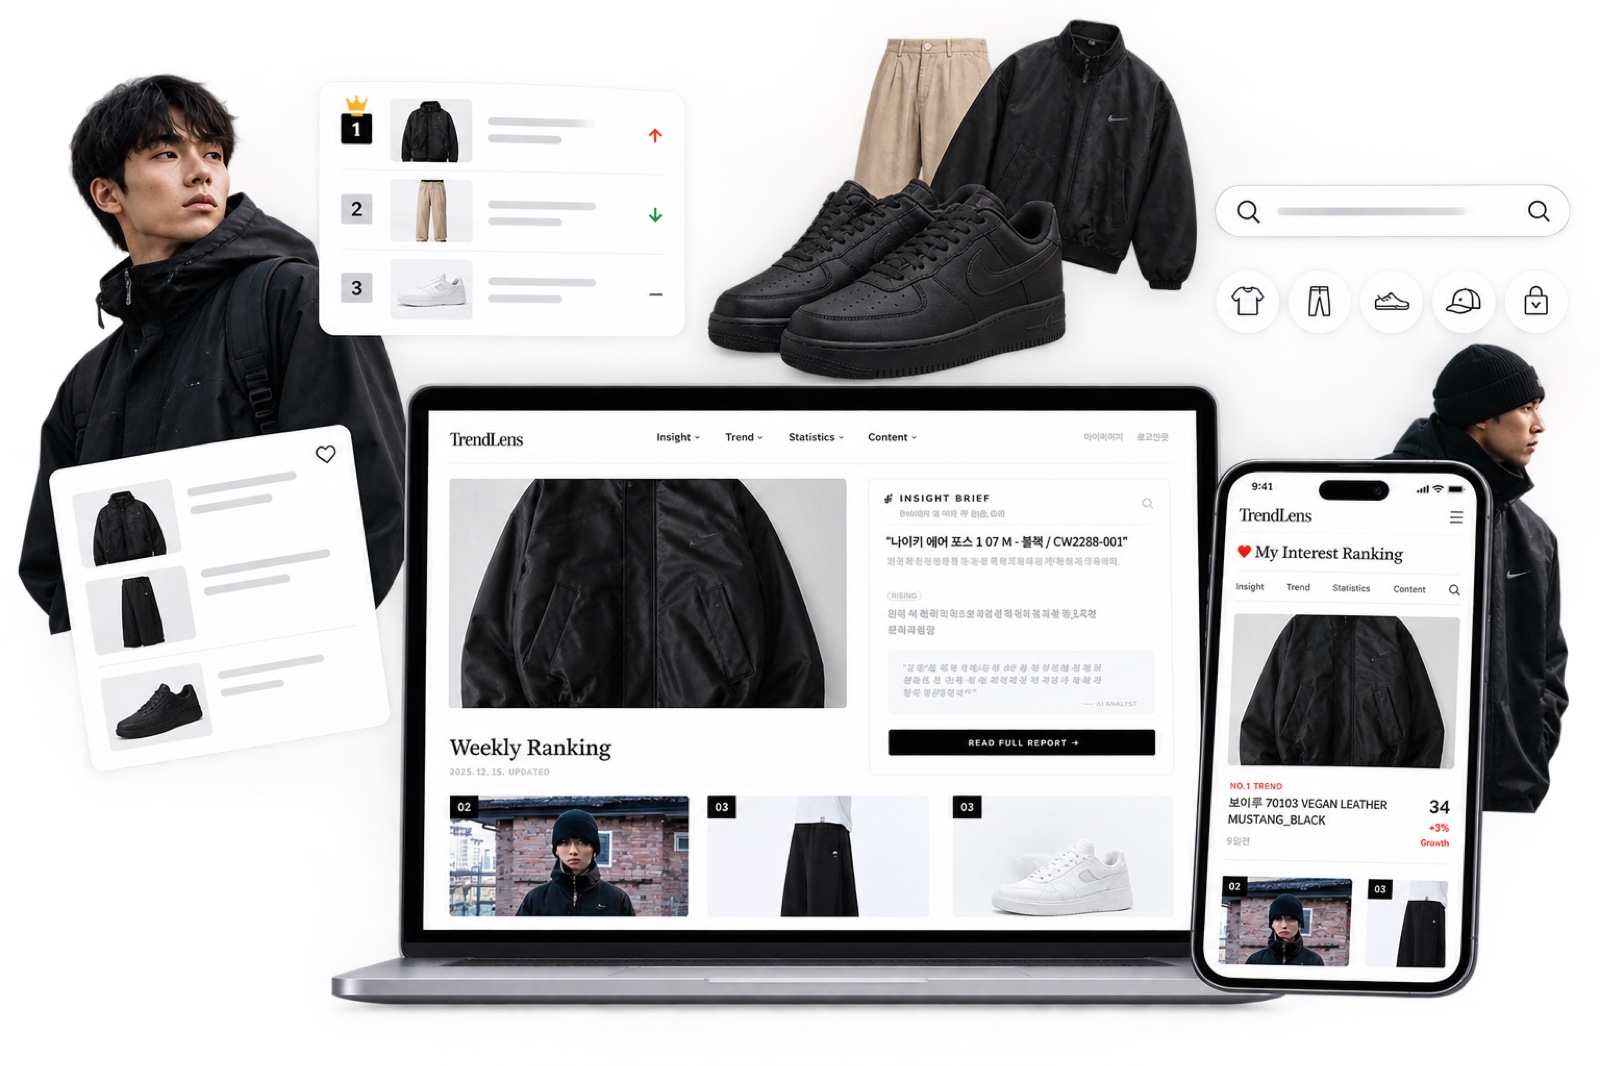
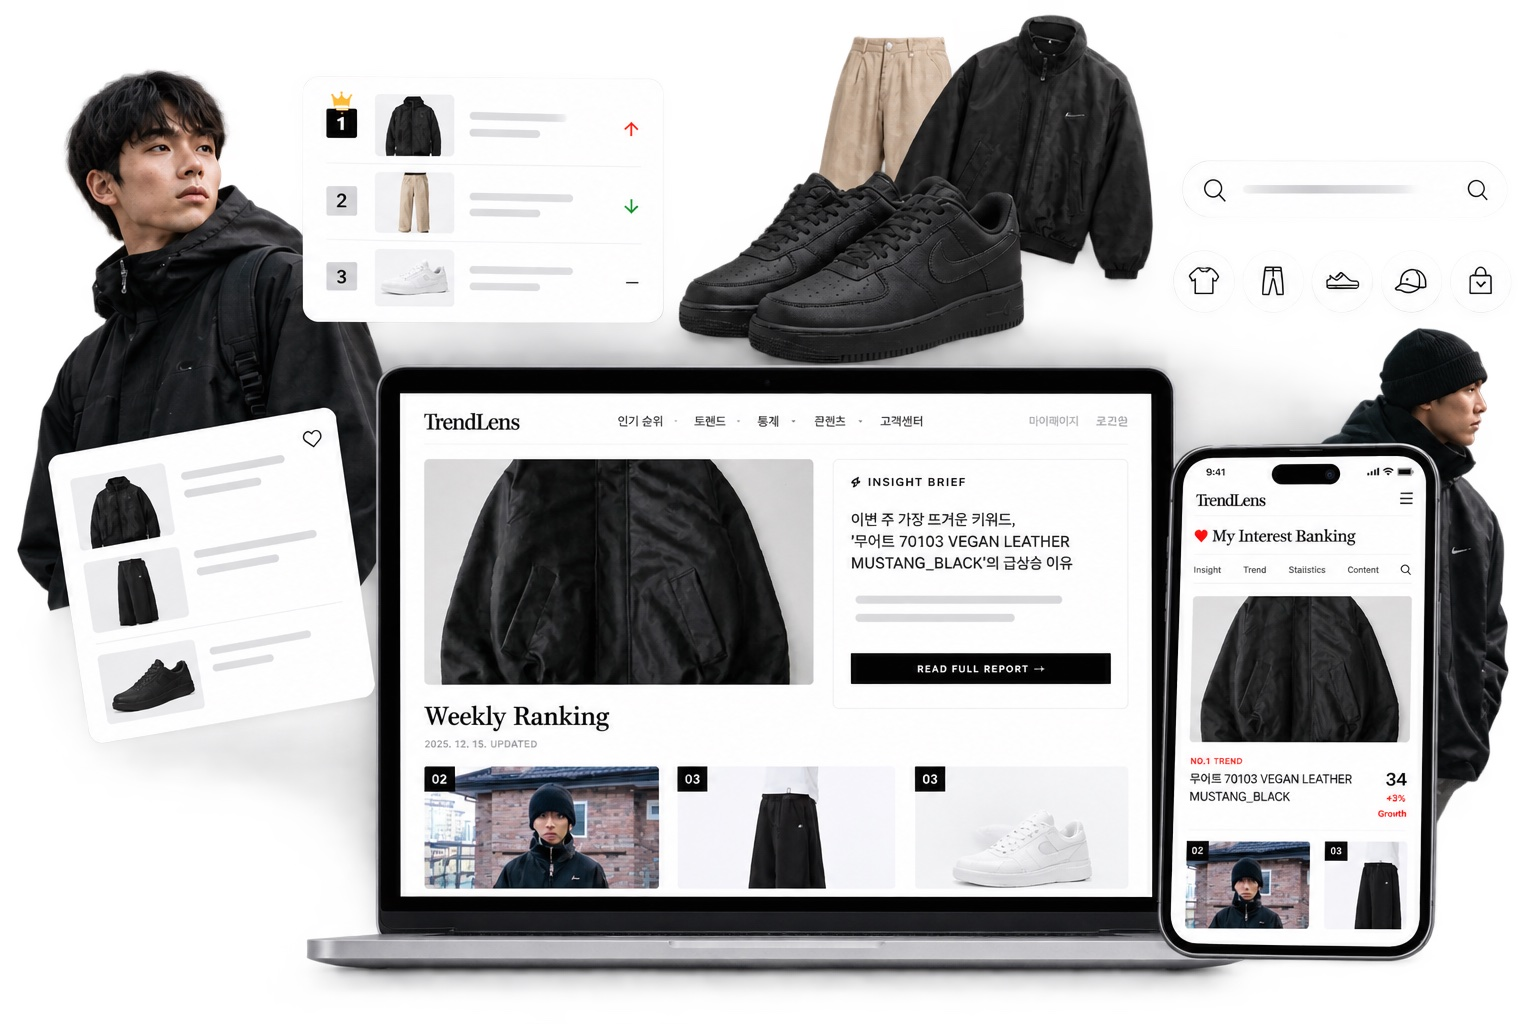
프로젝트 스크린샷 클릭 확대 기능 추가, TrendLens 대표 이미지 교체
작은 스크린샷 그리드에 호버 시 +/Click 힌트를 띄우고 클릭하면
화면의 대부분을 채우는 크기로 확대되는 라이트박스를 추가했다
(배경 클릭·닫기 버튼·Esc로 닫힘). ERD·아키텍처 다이어그램은
이미 전체 너비로 보이므로 확대 대상에서 제외했다.
TrendLens 프로젝트의 대표 이미지를 새 프로모 이미지로 교체했다.

diff --git a/assets/site.css b/assets/site.css
@@ -175,6 +175,54 @@ code.hl { font-family:var(--mono); font-size:0.92em; }
 }
 @media (max-width:760px) { .gallery { grid-template-columns:1fr; } }
 
+/* Click-to-zoom media wrapper — site.js wraps each gallery <img> in this so
+   the "click to enlarge" hint can sit centered over just the image, not the
+   caption below it. */
+.zoom-media { position:relative; cursor:zoom-in; }
+.zoom-hint {
+  position:absolute; inset:0; display:flex; flex-direction:column;
+  align-items:center; justify-content:center; gap:8px;
+  background:rgba(0,0,0,.5); color:#fff;
+  opacity:0; transition:opacity .2s ease; pointer-events:none;
+}
+.zoom-media:hover .zoom-hint { opacity:1; }
+.zoom-hint-icon {
+  width:44px; height:44px; border:2px solid #fff; border-radius:50%;
+  display:flex; align-items:center; justify-content:center;
+  font-size:24px; font-weight:700; line-height:1;
+}
+.zoom-hint-label { font-family:var(--mono); font-size:11px; letter-spacing:.16em; text-transform:uppercase; }
+
+/* Click-to-zoom overlay — opens near full-screen so screenshots are actually
+   readable; closes on click (backdrop, image, or the ✕) or Escape. */
+.gallery-zoom {
+  position:fixed; inset:0; z-index:300;
+  display:flex; align-items:center; justify-content:center;
+  background:rgba(0,0,0,0.85);
+  opacity:0; visibility:hidden; pointer-events:none;
+  transition:opacity .2s ease;
+}
+.gallery-zoom.is-visible { opacity:1; visibility:visible; pointer-events:auto; }
+.gallery-zoom-frame { position:relative; max-width:92vw; max-height:88vh; transform:scale(.96); transition:transform .2s ease; cursor:zoom-out; }
+.gallery-zoom.is-visible .gallery-zoom-frame { transform:scale(1); }
+.gallery-zoom img {
+  display:block; max-width:92vw; max-height:88vh; width:auto; height:auto;
+  object-fit:contain; border-radius:14px; border:1px solid var(--line);
+  box-shadow:0 24px 80px rgba(0,0,0,.6);
+}
+.gallery-zoom figcaption {
+  position:absolute; left:50%; bottom:-16px; transform:translate(-50%,100%);
+  margin:0; padding:7px 16px; background:#fff; color:#000; border-radius:6px;
+  font-size:13.5px; white-space:nowrap; max-width:92vw; overflow:hidden; text-overflow:ellipsis;
+}
+.gallery-zoom-close {
+  position:absolute; top:-18px; right:-18px; width:36px; height:36px;
+  background:#fff; color:#000; border-radius:50%; border:none;
+  display:flex; align-items:center; justify-content:center;
+  font-size:18px; line-height:1; cursor:pointer;
+}
+@media (max-width:760px) { .gallery-zoom-close { top:-14px; right:0; } }
+
 .feat-list { display:flex; flex-direction:column; gap:28px; margin-top:28px; }
 .feat { display:flex; gap:20px; }
 .feat .fn { font-family:var(--display); font-weight:700; font-size:22px; color:var(--accent); flex:none; width:40px; }

diff --git a/assets/site.js b/assets/site.js
@@ -50,4 +50,47 @@ document.addEventListener('DOMContentLoaded', function () {
       if (cursor) cursor.classList.remove('is-hidden');
     });
   });
+
+  // Gallery click-to-zoom — small screenshot crops are hard to read, so each
+  // one gets a "+ Click" hint on hover and opens a near-full-screen preview
+  // when clicked. Closes on click (backdrop/image/✕) or Escape. Excludes
+  // .gallery.full (ERD/architecture diagrams) — those are already full-width.
+  var galleryFigures = document.querySelectorAll('.gallery:not(.full) figure');
+  if (galleryFigures.length) {
+    var zoom = document.createElement('div');
+    zoom.className = 'gallery-zoom';
+    zoom.innerHTML = '<div class="gallery-zoom-frame"><img alt=""><figcaption></figcaption><button class="gallery-zoom-close" aria-label="Close">✕</button></div>';
+    document.body.appendChild(zoom);
+    var zoomImg = zoom.querySelector('img');
+    var zoomCap = zoom.querySelector('figcaption');
+    var closeZoom = function () { zoom.classList.remove('is-visible'); };
+    zoom.addEventListener('click', closeZoom);
+    document.addEventListener('keydown', function (e) {
+      if (e.key === 'Escape') closeZoom();
+    });
+
+    galleryFigures.forEach(function (fig) {
+      var img = fig.querySelector('img');
+      var cap = fig.querySelector('figcaption');
+      if (!img) return;
+
+      var media = document.createElement('div');
+      media.className = 'zoom-media';
+      img.parentNode.insertBefore(media, img);
+      media.appendChild(img);
+
+      var hint = document.createElement('div');
+      hint.className = 'zoom-hint';
+      hint.innerHTML = '<span class="zoom-hint-icon">+</span><span class="zoom-hint-label">Click</span>';
+      media.appendChild(hint);
+
+      media.addEventListener('click', function () {
+        zoomImg.src = img.src;
+        zoomImg.alt = img.alt || '';
+        zoomCap.textContent = cap ? cap.textContent : '';
+        zoomCap.style.display = cap ? '' : 'none';
+        zoom.classList.add('is-visible');
+      });
+    });
+  }
 });
